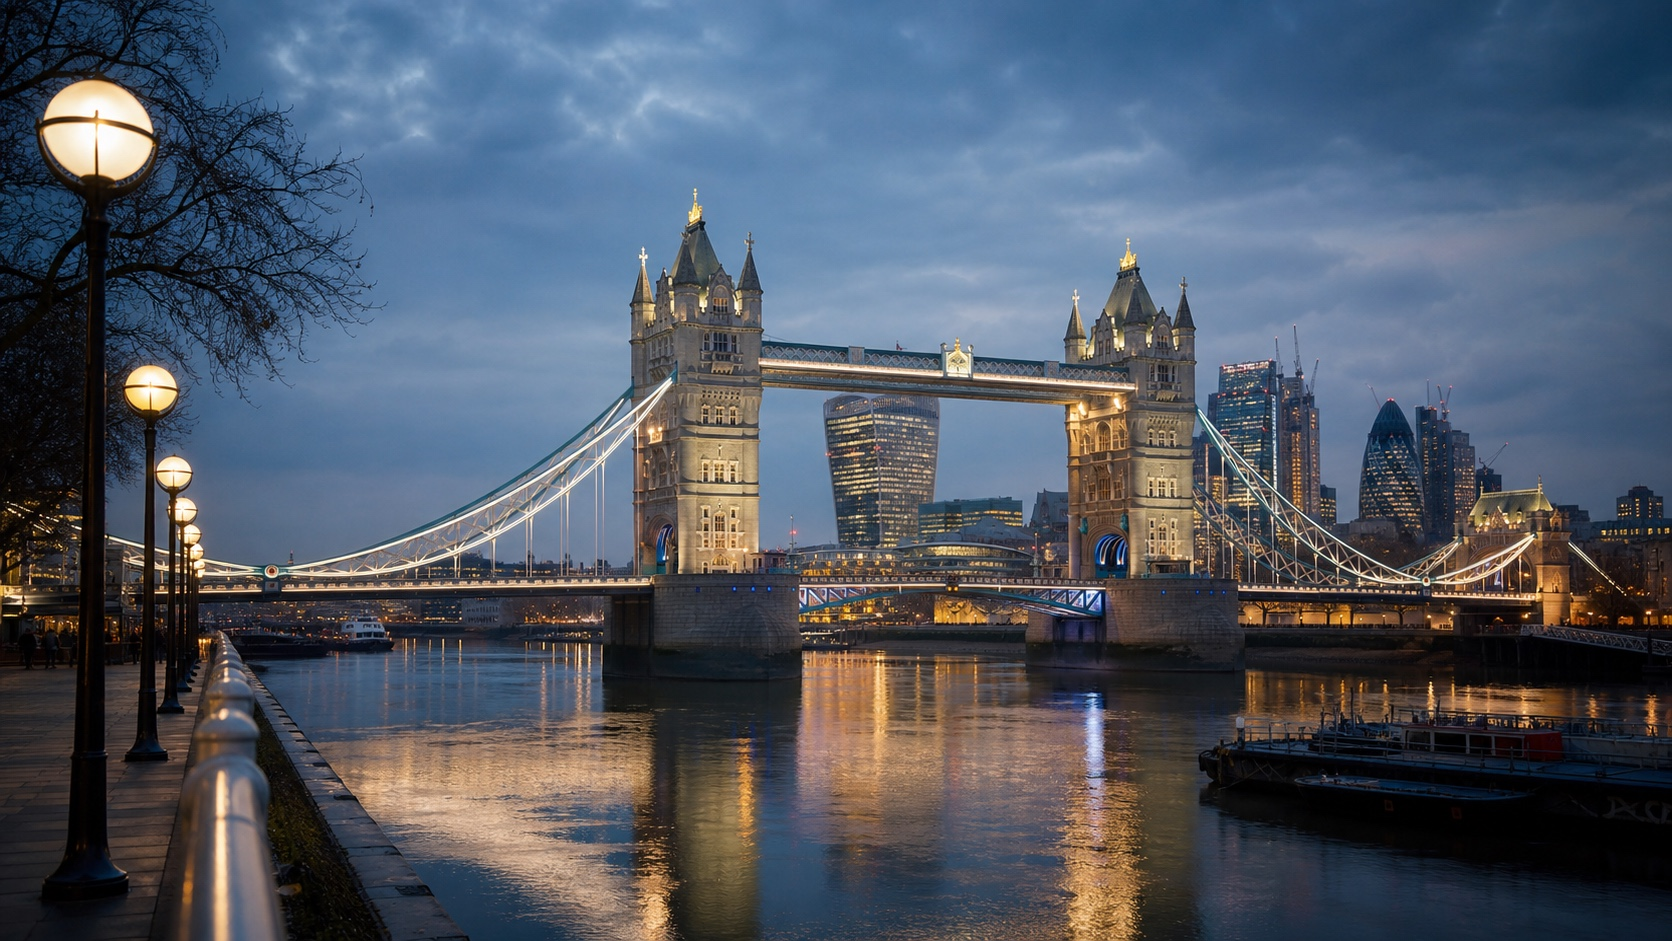
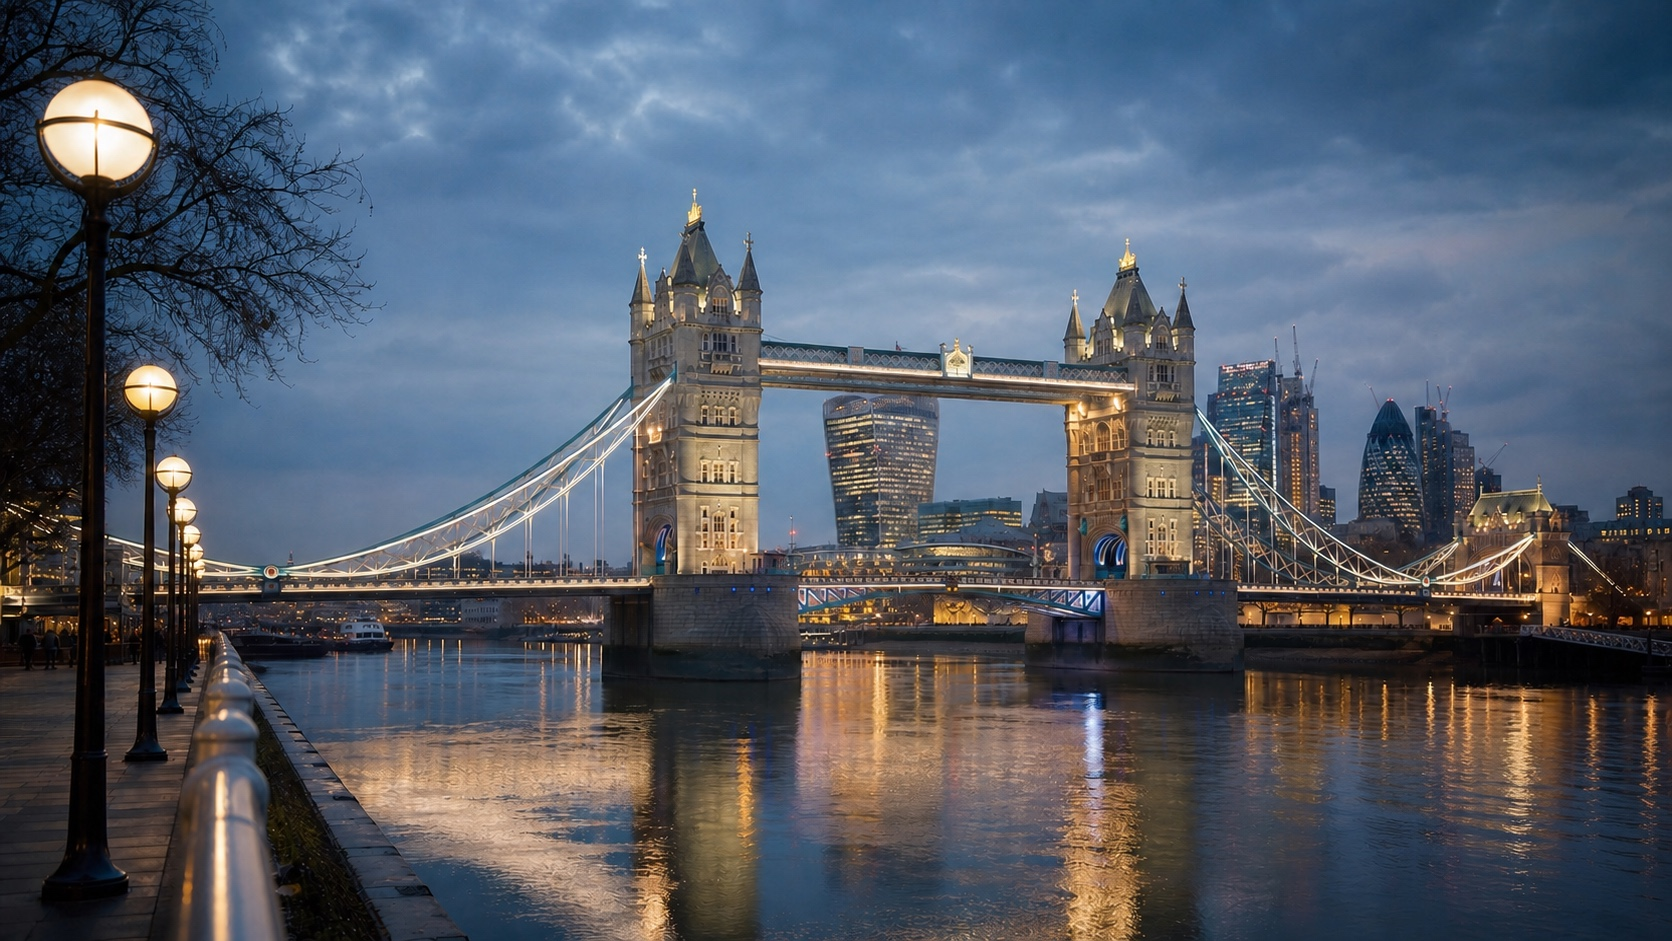
fix: remove generated London hull lettering

diff --git a/docs/visual-assets/wayfare-premium-concierge.md b/docs/visual-assets/wayfare-premium-concierge.md
@@ -90,10 +90,10 @@ markings along a left-midground roofline and was rejected before conversion.
 ## London destination
 
 - Final path: `apps/web/public/images/destinations/london-editorial-v2.jpg`
-- Built-in mode: generate
+- Built-in mode: generate, followed by one built-in precise-object edit
 - Checked-in dimensions: `1672 x 941`
-- Format and bytes: JPEG, `575494`
[1 lines of base64/hex data omitted]
+- Format and bytes: JPEG, `566890`
[1 lines of base64/hex data omitted]
 - Focal crop: `58% 50%`; Tower Bridge remains centered with enough skyline and river context.
 - Conversion: `sips` JPEG quality 92, format conversion only; no resizing.
 
@@ -110,15 +110,30 @@ Constraints: 3840px long edge and at least 2160px short edge; no text, logos, wa
 Avoid: impossible architecture, duplicated landmarks, malformed people, plastic texture, fantasy lighting, oversaturation, generated signage
 ```
 
+Accepted precise-object edit prompt:
+
+```text
+Use case: precise-object-edit
+Edit target: the immediately preceding London Tower Bridge JPEG.
+Primary request: remove the entire dark foreground vessel at the extreme lower-right, including every white glyph-like hull marking, railing, mast, and reflection belonging to that vessel; reconstruct only natural Thames water and blue-hour reflections in the removed area.
+Invariants: preserve the accepted Tower Bridge and skyline composition, every bridge and architectural geometry, left promenade and lamps, other distant vessel, camera position, crop, blue-hour lighting, realistic weather, water texture, reflections, color, and native photographic detail.
+Constraints: no text, glyphs, logos, readable signage, advertising, watermarks, prominent identifiable faces, or added objects anywhere in the image.
+Avoid: altered or impossible bridge architecture, duplicated structures, malformed boats or people, plastic water, fantasy lighting, oversaturation, synthetic sharpening, or text-like artifacts.
+```
+
 Accepted QA observations: original-detail review found coherent Tower Bridge
 geometry, plausible contemporary skyline layers, natural blue-hour weather and
 reflections, and no readable signage, advertising, duplicated landmarks,
-malformed figures, or plastic surfaces. Non-legible surface marks on the
-extreme-right vessel are not generated copy.
+malformed figures, or plastic surfaces. The former extreme-right foreground
+vessel and its white glyph-like hull markings are absent, with natural water and
+reflections restored in their place. The documented `58% 50%` 4:3 crop was
+inspected independently and contains no text-like marks.
 
 Rejected variant reasons: the first London candidate contained generated
 text-like lettering on a left-river vessel or pier and was rejected before
-conversion.
+conversion. The initially checked-in second candidate was rejected in Fix Round
+1 because its extreme-right foreground vessel contained large white glyph-like
+hull lettering that remained visible in the documented 4:3 crop.
 
 ## Istanbul destination
 
@@ -161,7 +176,7 @@ Task 7's branch-level history audit:
 ```text
 240eb6956d733f2044c3e13b913cfccd706990b0 apps/web/public/images/wayfare-hybrid-hero-v2.jpg
 e6d793cc15a411fb0539dd5cec6dc0baf4002ab4 apps/web/public/images/destinations/rome-editorial-v2.jpg
-4d9a7f1ee43f20e435fe6d863dc5fe9efcdf8b73 apps/web/public/images/destinations/london-editorial-v2.jpg
+3e9370023af2f45d3846d642cbdb5c697c3b61db apps/web/public/images/destinations/london-editorial-v2.jpg
 4b79d0c20052bce11dd3e53d393341298acb620a apps/web/public/images/destinations/istanbul-editorial-v2.jpg
 ```
 
